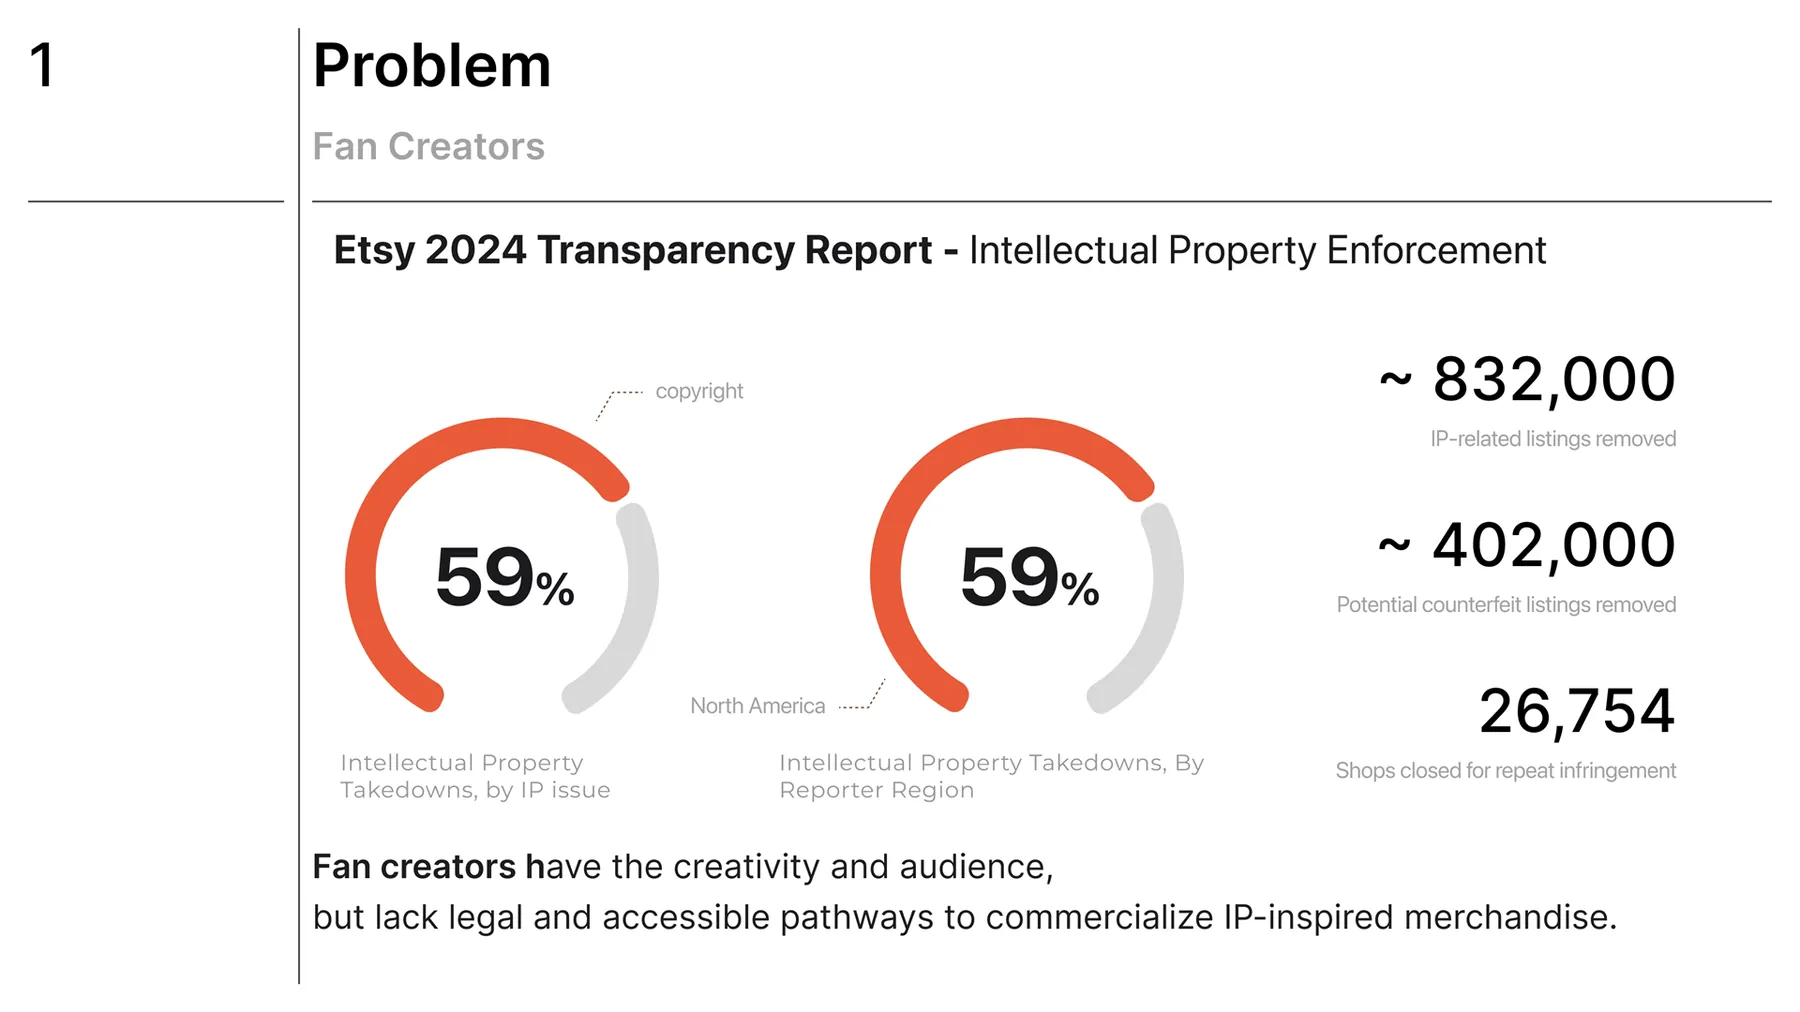
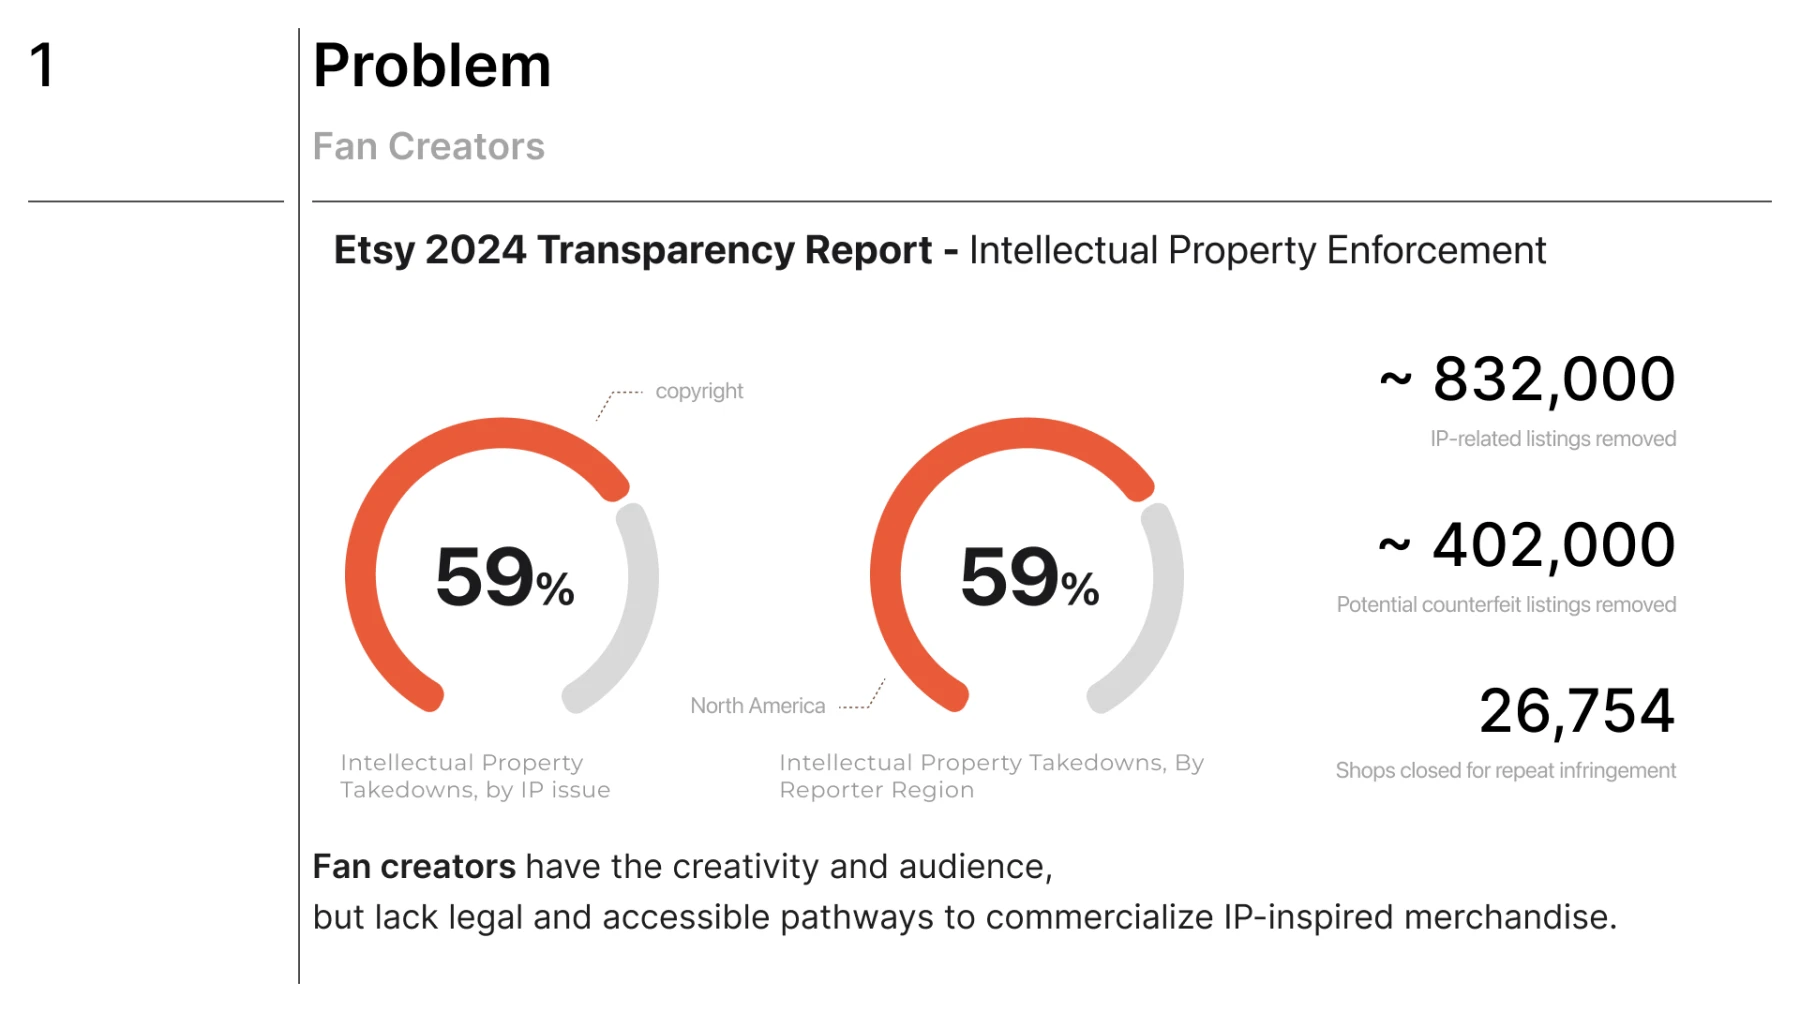
IPLY: survey slide, section text in Chinese and English, Chinese versions of 17 slides
- Survey results slide labelled as a preliminary signal, with a bilingual note
- Section text for every section
- Chinese slides (-zh.webp) shown when the page is in Chinese
- Problem slide: fix stray bold letter

diff --git a/works/iply.html b/works/iply.html
@@ -33,7 +33,7 @@ try{if(!sessionStorage.getItem('wz-loaded')&&!matchMedia('(prefers-reduced-motio
 <main class="project">
   <section class="meta"><div class="m-row"><span><span class="l-zh" lang="zh-Hans-CN">项目类型</span><span class="l-en" lang="en">Project type</span></span><span class="span2"><span class="l-zh" lang="zh-Hans-CN">平台产品策略项目</span><span class="l-en" lang="en">Platform product strategy</span></span></div><div class="m-row"><span><span class="l-zh" lang="zh-Hans-CN">项目名称</span><span class="l-en" lang="en">Project name</span></span><span class="span2"><span class="l-zh" lang="zh-Hans-CN">IPLY｜IP 共创与授权平台</span><span class="l-en" lang="en">IPLY — IP Co-creation &amp; Licensing Platform</span></span></div><div class="m-row"><span><span class="l-zh" lang="zh-Hans-CN">分类</span><span class="l-en" lang="en">Category</span></span><span class="span2"><span class="tag">[<span class="l-zh" lang="zh-Hans-CN">产品策略</span><span class="l-en" lang="en">Product strategy</span>]</span><span class="tag">[<span class="l-zh" lang="zh-Hans-CN">交互设计</span><span class="l-en" lang="en">Interaction design</span>]</span><span class="tag">[<span class="l-zh" lang="zh-Hans-CN">IP 生态</span><span class="l-en" lang="en">IP ecosystem</span>]</span><span class="tag">[<span class="l-zh" lang="zh-Hans-CN">粉丝社区</span><span class="l-en" lang="en">Fandom</span>]</span></span></div><div class="m-row"><span><span class="l-zh" lang="zh-Hans-CN">时间</span><span class="l-en" lang="en">Date</span></span><span class="span2">05.2026</span></div></section>
   <div class="p-grid">
-    <div class="p-main"><figure class="fig"><img src="../images/iply/00-hero.webp?v=1794459648" width="1800" height="1012" alt=""></figure><div class="sec-head"><span>01</span><span><span class="l-zh" lang="zh-Hans-CN">三方问题</span><span class="l-en" lang="en">A three-sided problem</span></span><span class="sec-text"></span></div><div class="figs figs-stack"><figure class="fig"><img src="../images/iply/01.webp?v=1794459639" width="1800" height="1012" alt="" loading="lazy" decoding="async"></figure><figure class="fig"><img src="../images/iply/02.webp?v=1794459639" width="1800" height="1012" alt="" loading="lazy" decoding="async"></figure><figure class="fig"><img src="../images/iply/03.webp?v=1794459639" width="1800" height="1012" alt="" loading="lazy" decoding="async"></figure></div><div class="sec-head"><span>02</span><span><span class="l-zh" lang="zh-Hans-CN">市场与竞争</span><span class="l-en" lang="en">Market &amp; competition</span></span><span class="sec-text"></span></div><div class="figs figs-stack"><figure class="fig"><img src="../images/iply/market-tam.webp?v=1794739453" width="1800" height="1012" alt="" loading="lazy" decoding="async"></figure><figure class="fig"><img src="../images/iply/market-sam.webp?v=1794739453" width="1800" height="1012" alt="" loading="lazy" decoding="async"></figure><figure class="fig"><img src="../images/iply/04.webp?v=1794738741" width="1800" height="1012" alt="" loading="lazy" decoding="async"></figure><figure class="fig"><img src="../images/iply/05.webp?v=1794738741" width="1800" height="1012" alt="" loading="lazy" decoding="async"></figure></div><div class="sec-head"><span>03</span><span><span class="l-zh" lang="zh-Hans-CN">机会与用户</span><span class="l-en" lang="en">Opportunity &amp; users</span></span><span class="sec-text"></span></div><div class="figs figs-stack"><figure class="fig"><img src="../images/iply/06.webp?v=1794459640" width="1800" height="1012" alt="" loading="lazy" decoding="async"></figure><figure class="fig"><img src="../images/iply/07.webp?v=1794738741" width="1800" height="1012" alt="" loading="lazy" decoding="async"></figure></div><div class="sec-head"><span>04</span><span><span class="l-zh" lang="zh-Hans-CN">产品策略与核心流程</span><span class="l-en" lang="en">Strategy &amp; core flow</span></span><span class="sec-text"><span class="l-zh" lang="zh-Hans-CN">构思 → 提交 → 社区验证 → IP 方授权 → 生产上架，五步把粉丝创意变成官方商品。</span><span class="l-en" lang="en">Ideate → submit → community validation → IP approval → production: five steps from fan idea to official product.</span></span></div><div class="figs figs-stack"><figure class="fig"><img src="../images/iply/08.webp?v=1794459640" width="1800" height="1012" alt="" loading="lazy" decoding="async"></figure><figure class="fig"><img src="../images/iply/09.webp?v=1794459641" width="1800" height="1012" alt="" loading="lazy" decoding="async"></figure><figure class="fig"><img src="../images/iply/10.webp?v=1794459641" width="1800" height="1012" alt="" loading="lazy" decoding="async"></figure><figure class="fig"><img src="../images/iply/11.webp?v=1794459641" width="1800" height="1012" alt="" loading="lazy" decoding="async"></figure><figure class="fig"><img src="../images/iply/journey-map.webp?v=1794739889" width="1800" height="1012" alt="" loading="lazy" decoding="async"></figure></div><div class="sec-head"><span>05</span><span><span class="l-zh" lang="zh-Hans-CN">高保真原型</span><span class="l-en" lang="en">High-fidelity prototype</span></span><span class="sec-text"></span></div><div class="figs figs-tall"><figure class="fig"><img src="../images/iply/12.webp?v=1794459642" width="1800" height="977" alt="" loading="lazy" decoding="async"></figure><figure class="fig"><img src="../images/iply/13.webp?v=1794738741" width="1800" height="2676" alt="" loading="lazy" decoding="async"></figure><figure class="fig"><img src="../images/iply/14.webp?v=1794738741" width="1200" height="2678" alt="" loading="lazy" decoding="async"></figure><figure class="fig"><img src="../images/iply/15.webp?v=1794738741" width="1200" height="2349" alt="" loading="lazy" decoding="async"></figure></div><div class="sec-head"><span>06</span><span><span class="l-zh" lang="zh-Hans-CN">商业模式与路线图</span><span class="l-en" lang="en">Business model &amp; roadmap</span></span><span class="sec-text"></span></div><div class="figs figs-stack"><figure class="fig"><img src="../images/iply/16.webp?v=1794459647" width="1800" height="1012" alt="" loading="lazy" decoding="async"></figure><figure class="fig"><img src="../images/iply/17.webp?v=1794459647" width="1800" height="1012" alt="" loading="lazy" decoding="async"></figure></div></div>
+    <div class="p-main"><figure class="fig"><img src="../images/iply/00-hero.webp?v=1794459648" width="1800" height="1012" alt=""></figure><div class="sec-head"><span>01</span><span><span class="l-zh" lang="zh-Hans-CN">三方问题</span><span class="l-en" lang="en">A three-sided problem</span></span><span class="sec-text"><span class="l-zh" lang="zh-Hans-CN">粉丝创作者有创意也有受众，却没有合法、门槛低的商业化途径；粉丝想要懂圈子、做工好的周边，现有选择却多是非官方或粗制滥造；IP 方缺少低风险的方式开发粉丝真正想要的周边，非官方周边还在侵蚀授权收入。仅 2024 年，Etsy 就因知识产权问题下架了约 83.2 万件商品。</span><span class="l-en" lang="en">Fan creators have ideas and audiences but no legal, accessible way to sell IP-inspired merch. Fans want well-made merch that gets the fandom, yet most options are unofficial or low quality. IP owners lack a low-risk way to make what fans actually want, while unofficial merch eats into licensing revenue. In 2024 alone, Etsy removed about 832,000 listings over IP issues.</span></span></div><div class="figs figs-stack"><figure class="fig"><img class="l-zh" src="../images/iply/01-zh.webp?v=1794740993" width="1800" height="1012" alt="" loading="lazy" decoding="async"><img class="l-en" src="../images/iply/01.webp?v=1794740443" width="1800" height="1012" alt="" loading="lazy" decoding="async"></figure><figure class="fig"><img class="l-zh" src="../images/iply/02-zh.webp?v=1794740993" width="1800" height="1012" alt="" loading="lazy" decoding="async"><img class="l-en" src="../images/iply/02.webp?v=1794459639" width="1800" height="1012" alt="" loading="lazy" decoding="async"></figure><figure class="fig"><img class="l-zh" src="../images/iply/03-zh.webp?v=1794740993" width="1800" height="1012" alt="" loading="lazy" decoding="async"><img class="l-en" src="../images/iply/03.webp?v=1794459639" width="1800" height="1012" alt="" loading="lazy" decoding="async"></figure></div><div class="sec-head"><span>02</span><span><span class="l-zh" lang="zh-Hans-CN">市场与竞争</span><span class="l-en" lang="en">Market &amp; competition</span></span><span class="sec-text"><span class="l-zh" lang="zh-Hans-CN">全球授权商品与服务市场约 3,696 亿美元，其中娱乐 / 角色类约 1,498 亿美元（TAM）；聚焦北美娱乐 / 角色授权商品，SAM 约 871 亿美元；按 0.5% 的可获得份额估算，SOM 为 4.35 亿美元交易额，按 10% 佣金约 4,350 万美元平台收入。竞品中，官方商店授权程度高但创作空间小，Etsy、Redbubble、Behance / Pinterest 创作灵活却没有授权通道，IPLY 瞄准两者兼具的空白。</span><span class="l-en" lang="en">The global licensed merchandise and services market is about $369.6B, with entertainment and character IP at $149.8B (TAM). Focusing on North American entertainment and character merch gives a SAM of about $87.1B; a 0.5% obtainable share puts the SOM at $435M in GMV, or about $43.5M in platform revenue at a 10% commission. Official stores are fully licensed but leave little creative room, while Etsy, Redbubble and Behance / Pinterest are creative but offer no licensing path. IPLY targets the gap that has both.</span></span></div><div class="figs figs-stack"><figure class="fig"><img class="l-zh" src="../images/iply/market-tam-zh.webp?v=1794740993" width="1800" height="1012" alt="" loading="lazy" decoding="async"><img class="l-en" src="../images/iply/market-tam.webp?v=1794739453" width="1800" height="1012" alt="" loading="lazy" decoding="async"></figure><figure class="fig"><img class="l-zh" src="../images/iply/market-sam-zh.webp?v=1794740993" width="1800" height="1012" alt="" loading="lazy" decoding="async"><img class="l-en" src="../images/iply/market-sam.webp?v=1794739453" width="1800" height="1012" alt="" loading="lazy" decoding="async"></figure><figure class="fig"><img class="l-zh" src="../images/iply/04-zh.webp?v=1794740993" width="1800" height="1012" alt="" loading="lazy" decoding="async"><img class="l-en" src="../images/iply/04.webp?v=1794738741" width="1800" height="1012" alt="" loading="lazy" decoding="async"></figure><figure class="fig"><img class="l-zh" src="../images/iply/05-zh.webp?v=1794740993" width="1800" height="1012" alt="" loading="lazy" decoding="async"><img class="l-en" src="../images/iply/05.webp?v=1794738741" width="1800" height="1012" alt="" loading="lazy" decoding="async"></figure></div><div class="sec-head"><span>03</span><span><span class="l-zh" lang="zh-Hans-CN">机会与用户</span><span class="l-en" lang="en">Opportunity &amp; users</span></span><span class="sec-text"><span class="l-zh" lang="zh-Hans-CN">问卷由团队成员执行：72% 的受访粉丝有创作或分享同人设计的经验，85% 愿意把自己的设计变成官方授权周边。样本量没有记录，所以这里只作为初步信号。三个 persona 分别代表创作者、粉丝和 IP 方。</span><span class="l-en" lang="en">In a survey run by a teammate, 72% of fans had created or shared fan designs and 85% would turn their own designs into officially licensed merch. The sample size wasn’t recorded, so treat these as preliminary signals. The three personas represent the creator, the fan and the IP owner.</span></span></div><div class="figs figs-stack"><figure class="fig"><img class="l-zh" src="../images/iply/06-zh.webp?v=1794740993" width="1800" height="1012" alt="" loading="lazy" decoding="async"><img class="l-en" src="../images/iply/06.webp?v=1794459640" width="1800" height="1012" alt="" loading="lazy" decoding="async"></figure><figure class="fig"><img class="l-zh" src="../images/iply/survey-zh.webp?v=1794740993" width="1800" height="1012" alt="" loading="lazy" decoding="async"><img class="l-en" src="../images/iply/survey.webp?v=1794740443" width="1800" height="1012" alt="" loading="lazy" decoding="async"></figure><figure class="fig"><img class="l-zh" src="../images/iply/07-zh.webp?v=1794740993" width="1800" height="1012" alt="" loading="lazy" decoding="async"><img class="l-en" src="../images/iply/07.webp?v=1794738741" width="1800" height="1012" alt="" loading="lazy" decoding="async"></figure></div><div class="sec-head"><span>04</span><span><span class="l-zh" lang="zh-Hans-CN">产品策略与核心流程</span><span class="l-en" lang="en">Strategy &amp; core flow</span></span><span class="sec-text"><span class="l-zh" lang="zh-Hans-CN">构思 → 提交 → 社区验证 → IP 方授权 → 生产上架，五步把粉丝创意变成官方商品。</span><span class="l-en" lang="en">Ideate → submit → community validation → IP approval → production: five steps from fan idea to official product.</span></span></div><div class="figs figs-stack"><figure class="fig"><img class="l-zh" src="../images/iply/08-zh.webp?v=1794740993" width="1800" height="1012" alt="" loading="lazy" decoding="async"><img class="l-en" src="../images/iply/08.webp?v=1794459640" width="1800" height="1012" alt="" loading="lazy" decoding="async"></figure><figure class="fig"><img class="l-zh" src="../images/iply/09-zh.webp?v=1794740993" width="1800" height="1012" alt="" loading="lazy" decoding="async"><img class="l-en" src="../images/iply/09.webp?v=1794459641" width="1800" height="1012" alt="" loading="lazy" decoding="async"></figure><figure class="fig"><img class="l-zh" src="../images/iply/10-zh.webp?v=1794740993" width="1800" height="1012" alt="" loading="lazy" decoding="async"><img class="l-en" src="../images/iply/10.webp?v=1794459641" width="1800" height="1012" alt="" loading="lazy" decoding="async"></figure><figure class="fig"><img class="l-zh" src="../images/iply/11-zh.webp?v=1794740993" width="1800" height="1012" alt="" loading="lazy" decoding="async"><img class="l-en" src="../images/iply/11.webp?v=1794459641" width="1800" height="1012" alt="" loading="lazy" decoding="async"></figure><figure class="fig"><img class="l-zh" src="../images/iply/journey-map-zh.webp?v=1794740993" width="1800" height="1012" alt="" loading="lazy" decoding="async"><img class="l-en" src="../images/iply/journey-map.webp?v=1794739889" width="1800" height="1012" alt="" loading="lazy" decoding="async"></figure></div><div class="sec-head"><span>05</span><span><span class="l-zh" lang="zh-Hans-CN">高保真原型</span><span class="l-en" lang="en">High-fidelity prototype</span></span><span class="sec-text"><span class="l-zh" lang="zh-Hans-CN">高保真围绕创作者的主流程：注册 → 选择 IP → 选择品类并上传设计 → 在 Ideas 页接受社区的投票、收藏与评论 → 在 My Proposals 中追踪提案从草稿、预检、社区验证到授权上架的每一步状态。</span><span class="l-en" lang="en">The hi-fi follows the creator’s main path: sign up → choose an IP → pick a product type and upload the design → gather votes, saves and comments on the Ideas page → track each proposal in My Proposals, from draft and pre-check through community validation to licensing and launch.</span></span></div><div class="figs figs-tall"><figure class="fig"><img src="../images/iply/12.webp?v=1794459642" width="1800" height="977" alt="" loading="lazy" decoding="async"></figure><figure class="fig"><img src="../images/iply/13.webp?v=1794738741" width="1800" height="2676" alt="" loading="lazy" decoding="async"></figure><figure class="fig"><img src="../images/iply/14.webp?v=1794738741" width="1200" height="2678" alt="" loading="lazy" decoding="async"></figure><figure class="fig"><img src="../images/iply/15.webp?v=1794738741" width="1200" height="2349" alt="" loading="lazy" decoding="async"></figure></div><div class="sec-head"><span>06</span><span><span class="l-zh" lang="zh-Hans-CN">商业模式与路线图</span><span class="l-en" lang="en">Business model &amp; roadmap</span></span><span class="sec-text"><span class="l-zh" lang="zh-Hans-CN">收入来自三部分：交易佣金、IP 方的赞助活动与广告费，以及面向 IP 方的 B2B 订阅（需求数据与审核工具）。路线图分五个阶段：创作者提交与 IP 匹配 MVP → 社区验证系统 → IP 方审核后台 → 授权生产与销售上线 → 可扩展的 IP 周边生态。</span><span class="l-en" lang="en">Revenue comes from three streams: a commission on each sale, sponsored IP campaigns and advertising, and a B2B subscription that gives IP owners demand data and review tools. The roadmap has five phases: a creator submission and IP-matching MVP → a community validation system → an IP owner approval portal → licensed production and sales → a scalable IP merch ecosystem.</span></span></div><div class="figs figs-stack"><figure class="fig"><img class="l-zh" src="../images/iply/16-zh.webp?v=1794740993" width="1800" height="1012" alt="" loading="lazy" decoding="async"><img class="l-en" src="../images/iply/16.webp?v=1794459647" width="1800" height="1012" alt="" loading="lazy" decoding="async"></figure><figure class="fig"><img class="l-zh" src="../images/iply/17-zh.webp?v=1794740993" width="1800" height="1012" alt="" loading="lazy" decoding="async"><img class="l-en" src="../images/iply/17.webp?v=1794459647" width="1800" height="1012" alt="" loading="lazy" decoding="async"></figure></div></div>
     <aside class="p-side"><div class="sticky"><p><span class="l-zh" lang="zh-Hans-CN">IPLY 是一个连接粉丝创作者与 IP 方的周边共创与授权平台。粉丝提交周边提案，由社区投票与预售验证需求，再交给 IP 方审核授权并生产上架，探索如何让粉丝创意以合规、可持续的方式变成官方商品。</span><span class="l-en" lang="en">IPLY is a co-creation and licensing platform connecting fan creators with IP owners. Fans submit merch proposals, the community validates demand through votes and pre-orders, and IP owners approve and license them for production — exploring how fan creativity can become official products in a legitimate, sustainable way.</span></p><p class="dim">※ <span class="l-zh" lang="zh-Hans-CN">概念项目，页面中出现的 IP 名称仅作示意，与相关 IP 方无合作。</span><span class="l-en" lang="en">Concept project. IP names shown are illustrative only; no affiliation with the rights holders.</span></p></div></aside>
   </div>
   <section class="meta p-foot"><div class="m-row"><span><span class="l-zh" lang="zh-Hans-CN">项目性质</span><span class="l-en" lang="en">Format</span></span><span class="span2"><span class="l-zh" lang="zh-Hans-CN">课程项目 · 3 人团队</span><span class="l-en" lang="en">Course project · Team of 3</span></span></div><div class="m-row"><span><span class="l-zh" lang="zh-Hans-CN">团队</span><span class="l-en" lang="en">Team</span></span><span class="span2"><span class="l-zh" lang="zh-Hans-CN">Wei Zhao、Dingrui Yu、Xiaohe Yu</span><span class="l-en" lang="en">Wei Zhao, Dingrui Yu, Xiaohe Yu</span></span></div><div class="m-row"><span><span class="l-zh" lang="zh-Hans-CN">课程</span><span class="l-en" lang="en">Course</span></span><span class="span2">IXDS 708 Product Strategy &amp; Storytelling · SCAD</span></div><div class="m-row"><span><span class="l-zh" lang="zh-Hans-CN">周期</span><span class="l-en" lang="en">Timeline</span></span><span class="span2">2026.03 – 2026.05</span></div><div class="m-row"><span><span class="l-zh" lang="zh-Hans-CN">工具</span><span class="l-en" lang="en">Tools</span></span><span class="span2">Figma · Market sizing (TAM / SAM / SOM)</span></div><div class="m-row pager"><span></span><span class="span2"><a href="petsignals.html">‹ PREVIOUS</a><a href="bloom-near-you.html">NEXT ›</a></span></div></section>
